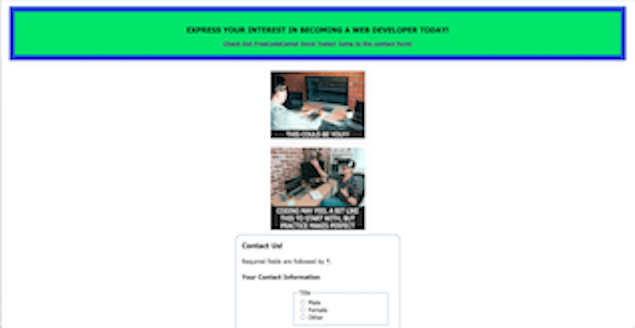
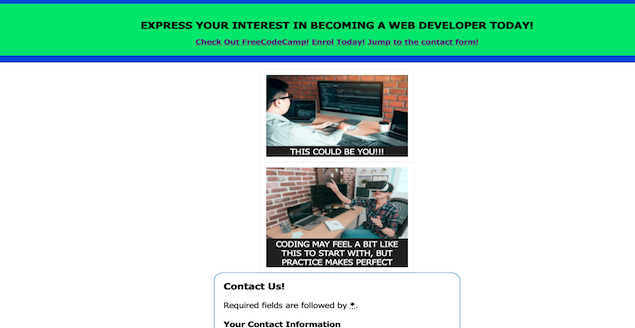
fifth commit

diff --git a/assets/css/style.css b/assets/css/style.css
@@ -102,12 +102,21 @@ footer {
     justify-content: space-between;
 }
 
+.firstpic img:hover {
+    opacity: .5;
+}
 
 .otherpics {
+    flex: 4;
+    padding: 50px;
     display: flex;
     flex-wrap: wrap;
     justify-content: space-evenly;
     align-items: flex-start;
+}
+
+.otherpics img:hover {
+    opacity: .5;
 }
 
 

diff --git a/index.html b/index.html
@@ -45,7 +45,7 @@
     </p>
 </div>
 <!--my work section-->
-<div id="my-work">
+<div class="firstpic" id="my-work">
     <h3>Week 1 Homework Assignment</h3>
 <a href=" https://lconnell1000.github.io/homework_GIT/">
     <img src="./assets/images/week1.png" alt="week 1 homework screenshot">
